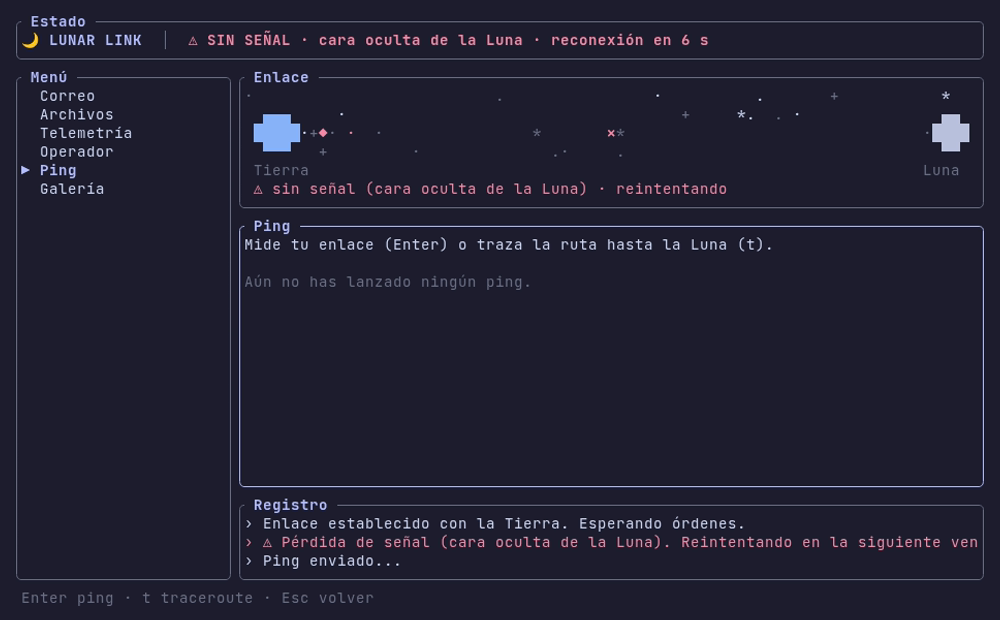
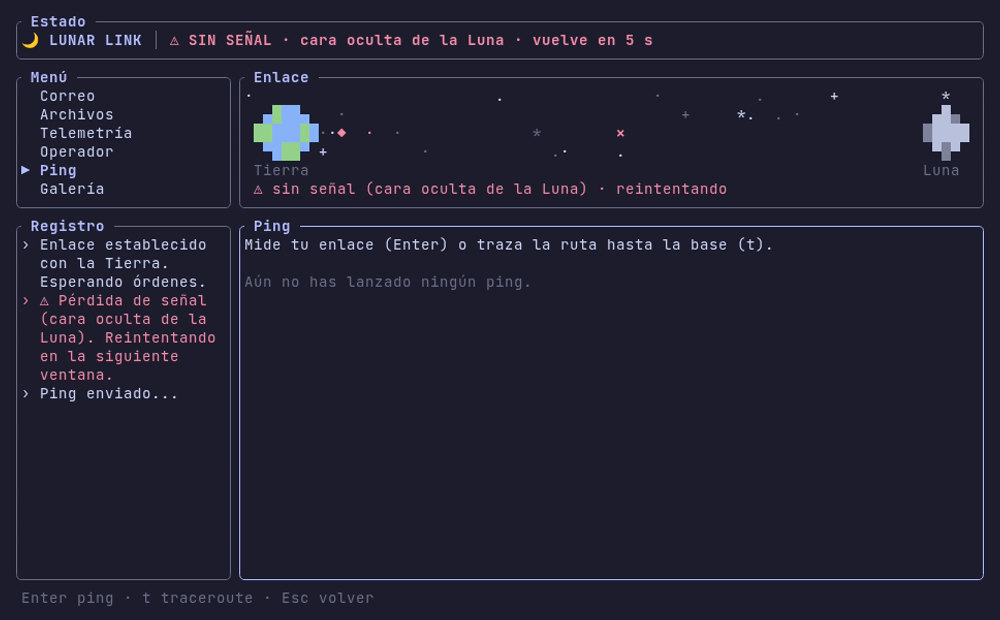
docs: rewrite README in a professional tone, refresh demo media
The README read informally ("una idea tan loca como divertida") and
captioned the existing GIF in the future tense. It now leads with
what the project is, lists features in a table, documents the CLI
ranges and mail scrolling, explains key design decisions and adds
the gallery screenshot. The GIF and outage screenshot are regenerated
with the new layout.

diff --git a/README.md b/README.md
@@ -3,72 +3,65 @@
 # 🌙 Lunar Link
 
 ![License](https://img.shields.io/badge/license-GPL--3.0-blue)
-![Rust](https://img.shields.io/badge/rust-stable-orange?logo=rust)
+![Rust](https://img.shields.io/badge/rust-1.88%2B-orange?logo=rust)
 ![TUI](https://img.shields.io/badge/ui-ratatui-8a2be2)
 ![CI](https://github.com/AdriaBC06/Lunar-Link/actions/workflows/ci.yml/badge.svg)
 
+**Simulador de un servidor en la Luna, accesible desde la terminal con el retardo real de la señal.**
+
 </div>
 
-> Un pequeño servidor lunar al que te conectas desde la terminal. Sin IA: contenido premontado, un enlace con el retardo real de las señales espaciales y una interfaz de terminal animada e interactiva.
+<p align="center"><img src="docs/demo.gif" alt="Demo de Lunar Link: un ping viaja a la Luna y vuelve, y después se descarga un archivo" width="800"></p>
 
-<p align="center"><img src="docs/demo.gif" alt="Demo de Lunar Link" width="800"></p>
+Lunar Link es una interfaz de terminal (TUI) conectada a una estación lunar simulada. Cada petición sufre el retardo que tendría una señal de radio real: unos **1,3 s por trayecto** hasta la Luna y **entre 3 y 22 minutos** hasta Marte. El enlace modela además la distancia variable, los cortes de señal y un ancho de banda limitado.
 
-*El GIF mostrará la TUI en acción: la petición sale, viaja 1,3 s hasta la Luna, el servidor responde y la respuesta vuelve otros 1,3 s.*
+Todo el contenido es local y está escrito a mano: no usa red, claves ni modelos de IA.
 
----
+## Motivación
 
-## ¿De qué va esto?
+Con el debate sobre el consumo energético y de agua de los centros de datos, cada vez se habla más de llevarlos al espacio. Lunar Link no pretende resolver esa cuestión: permite **experimentar** cómo sería usar un servicio alojado a 384.000 km y qué implica que la latencia mínima venga impuesta por la velocidad de la luz.
 
-La Luna está a unos 384.000 km de la Tierra. La luz tarda unos **1,3 segundos** en llegar, así que cualquier consulta a un servidor alojado allí tendría un viaje de ida y vuelta de unos **2,6 segundos**. A Marte, el retardo va de **3 a 22 minutos solo de ida**.
+## Funcionalidades
 
-Con el debate sobre los centros de datos (energía, agua, rechazo vecinal) surge una idea tan loca como divertida: *¿y si los construimos en el espacio?* **Lunar Link** no construye ese centro de datos; te deja **sentir** cómo sería conectarte a un servidor lunar, a través de una terminal.
+El servidor simula **Base Tranquilidad**, una estación en el Mar de la Tranquilidad:
 
-## ¿Cómo funciona?
+| Sección | Qué hace |
+|---|---|
+| **Correo** | Buzón con mensajes de la tripulación; el texto llega con efecto de escritura. |
+| **Archivos** | Descargas con barra de progreso limitada por el ancho de banda del enlace (24 KB/s). |
+| **Telemetría** | Temperatura, energía solar, batería, polvo y radiación con ciclo día/noche, más gráficas de evolución. Cada dato indica su antigüedad. |
+| **Operador** | Diálogo guionizado: se navega por opciones o escribiendo palabras clave. |
+| **Ping / traceroute** | Mide la latencia real del enlace y muestra los saltos hasta la base. |
+| **Galería** | Ilustraciones ASCII enviadas desde la estación. |
 
-Tú → enlace (retardo de ida) → servidor lunar → enlace (retardo de vuelta) → tú.
+Sobre el enlace:
 
-1. Navegas por la interfaz y lanzas una petición (abrir un correo, descargar un archivo, hacer ping...).
-2. El enlace la retiene el tiempo de viaje hasta la Luna.
-3. El servidor lunar responde con contenido premontado.
-4. El enlace retiene la respuesta el tiempo de vuelta.
-5. Te la entrega, con animaciones durante toda la espera.
-
-## Qué hay en el servidor lunar
-
-El servidor simula la estación **Base Tranquilidad** y ofrece contenido fijo, escrito a mano:
-
-- **Correo**: buzón con mensajes de la tripulación.
-- **Archivos**: descargas con barra de progreso limitada por el ancho de banda del enlace.
-- **Telemetría**: panel en vivo con temperatura, energía solar, nivel de polvo...
-- **Operador**: conversación guionizada por menús y palabras clave (sin IA).
-- **Ping / traceroute**: mide tu enlace y muestra los saltos hasta la Luna.
-- **Galería**: imágenes ASCII de la superficie lunar.
-
-## Características
-
-- **Retardo realista y variable**: la distancia Tierra-Luna oscila entre ~363.000 y ~405.000 km, así que el retardo cambia suavemente.
-- **Cortes de señal**: pérdidas de comunicación aleatorias, cara oculta de la Luna, tormentas solares.
-- **Ancho de banda limitado**: los archivos grandes tardan más, como en un enlace real.
-- **TUI animada e interactiva**: menús navegables con teclado y ratón, paquetes viajando por una órbita animada, campo de estrellas, barras de progreso, gráficas en vivo y cuenta atrás de la señal.
-- **Modo Marte**: retardos de minutos; las peticiones se encolan, sigues navegando y cada respuesta llega después como un aviso, casi como un correo electrónico. Con `--speed` aceleras el tiempo de viaje para probarlo.
-- **Sin dependencias externas**: no necesita red, claves ni API. Funciona al instante.
+- **Retardo variable.** La distancia Tierra-Luna oscila entre ~363.000 y ~405.000 km, y el retardo cambia con ella.
+- **Cortes de señal.** Hay pérdidas aleatorias, tormentas solares y el paso del relé por la cara oculta. Las peticiones esperan y se reintentan solas.
+- **Peticiones concurrentes.** Puedes lanzar varias peticiones y seguir navegando; cada respuesta llega como un aviso.
+- **Modo Marte.** Aplica retardos de minutos con el mismo servidor. Con `--speed` se acelera el tiempo de viaje para poder probarlo.
+- **Interfaz animada.** Muestra campo de estrellas, paquetes viajando entre la Tierra y su destino, transiciones y gráficas en vivo. Funciona con teclado y ratón, y se adapta a terminales de 256 colores.
 
 ## Capturas
 
-| Modo Luna | Modo Marte | Corte de señal |
-|---|---|---|
-| ![Luna](docs/screenshot-luna.png) | ![Marte](docs/screenshot-marte.png) | ![Corte](docs/screenshot-outage.png) |
+| Modo Luna | Modo Marte (×100) |
+|---|---|
+| ![Telemetría en modo Luna](docs/screenshot-luna.png) | ![Peticiones en vuelo hacia Marte](docs/screenshot-marte.png) |
+| **Corte de señal** | **Galería ASCII** |
+| ![Corte por la cara oculta de la Luna](docs/screenshot-outage.png) | ![Galería: salida de la Tierra](docs/screenshot-galeria.png) |
 
 ## Instalación
+
+Requiere Rust 1.88 o superior.
 
 ```
 cargo install --git https://github.com/AdriaBC06/Lunar-Link
 lunar-link
 ```
 
-Un solo binario, un solo comando. Necesita Rust 1.88 o superior. También hay binarios precompilados para Linux, macOS y Windows en la sección de [releases](https://github.com/AdriaBC06/Lunar-Link/releases).
+En la sección de [releases](https://github.com/AdriaBC06/Lunar-Link/releases) hay binarios precompilados para Linux, macOS y Windows.
 
-Para compilarlo desde el repositorio:
+Para compilar desde el código fuente:
 
 ```
 git clone https://github.com/AdriaBC06/Lunar-Link
@@ -79,10 +72,10 @@ cargo run --release
 ## Uso
 
 ```
-lunar-link                              # retardo Tierra-Luna (por defecto)
-lunar-link --target marte               # retardo Tierra-Marte (3-22 min)
-lunar-link --target marte --speed 100   # Marte con el tiempo acelerado x100
-lunar-link --delay 5                    # retardo de ida fijo en segundos (útil para pruebas)
+lunar-link                              # enlace Tierra-Luna (por defecto)
+lunar-link --target marte               # enlace Tierra-Marte (3-22 min por trayecto)
+lunar-link --target marte --speed 100   # Marte con el tiempo de viaje acelerado ×100 (1-10000)
+lunar-link --delay 5                    # retardo de ida fijo, en segundos (0-3600)
 lunar-link --no-outages                 # sin cortes de señal
 ```
 
@@ -90,33 +83,49 @@ lunar-link --no-outages                 # sin cortes de señal
 
 | Tecla | Acción |
 |---|---|
-| `↑` `↓` / `j` `k` | Moverse por el menú o por una lista |
+| `↑` `↓` / `j` `k` | Moverse por el menú o una lista; desplazar un correo abierto |
 | `Enter` / `→` | Abrir una sección o ejecutar la acción |
-| `Esc` / `←` | Volver al menú |
+| `Esc` / `←` | Volver |
 | `t` | Traceroute (en Ping) |
 | `←` `→` | Cambiar de imagen (en Galería) |
 | Clic | Abrir una opción del menú |
 | `q` / `Ctrl+C` | Salir |
 
-Necesita una terminal de al menos 64×24. Si no admite color verdadero, usa 256 colores.
-
-## Stack
-
-- **Rust** (un único binario).
-- **ratatui + crossterm** para la interfaz de terminal.
-- **tokio** para la gestión asíncrona de retardos y reintentos.
-- **serde + TOML** para el contenido premontado.
+La terminal debe medir al menos 64×24. Si no admite color verdadero, la interfaz usa la paleta de 256 colores.
 
 ## Arquitectura
 
-- `link`: modelo del enlace (distancia, latencia variable, cortes, ancho de banda).
-- `server`: servidor lunar simulado, que responde a las peticiones con contenido fijo.
-- `content`: datos premontados (correo, archivos, telemetría, diálogos del operador).
-- `ui`: pantallas, widgets y animaciones de la TUI.
-- `app`: estado de la aplicación y bucle de eventos.
+Es un único binario en Rust. El cliente (la TUI) y el servidor simulado conviven en el mismo proceso, separados por un modelo del enlace:
 
-Diagramas y decisiones de diseño en [`docs/ARCHITECTURE.md`](docs/ARCHITECTURE.md). Planificación de desarrollo en [`docs/PLANNING.md`](docs/PLANNING.md).
+| Módulo | Responsabilidad |
+|---|---|
+| `link` | Distancia y retardo, cortes deterministas por semilla, ancho de banda y aceleración del tiempo. |
+| `server` | Traduce cada petición en una respuesta con contenido fijo; no conoce el retardo. |
+| `content` | Contenido premontado, embebido en el binario desde `src/content.toml`. |
+| `app` | Estado de cada sección, peticiones en vuelo y manejo de la entrada. |
+| `ui` | Dibujado con `ratatui`: panel del enlace, listas, gráficas y animaciones. |
+| `fmt` | Formato de números y duraciones en español. |
+
+Algunas decisiones de diseño:
+
+- Cada petición es una tarea de `tokio` independiente, emparejada con su respuesta por un `id`.
+- Los cortes son una función pura del tiempo y de una semilla. La interfaz, los reintentos y los tests consultan así la misma fuente de verdad sin compartir estado.
+- Los tests del enlace usan el reloj pausado de `tokio`, de modo que un viaje de 25 minutos a Marte se verifica en microsegundos.
+
+Hay diagramas y más detalle en [`docs/ARCHITECTURE.md`](docs/ARCHITECTURE.md).
+
+**Stack:** Rust · ratatui + crossterm · tokio · clap · serde + TOML.
+
+## Desarrollo
+
+```
+cargo test                                # tests unitarios y de renderizado
+cargo clippy --all-targets -- -D warnings
+cargo fmt --check
+```
+
+La CI de GitHub Actions ejecuta estas tres comprobaciones en cada push. El GIF y las capturas se generan con [vhs](https://github.com/charmbracelet/vhs) a partir de los ficheros `.tape` de `docs/`.
 
 ## Licencia
 
-GPL-3.0
+[GPL-3.0](LICENSE)
